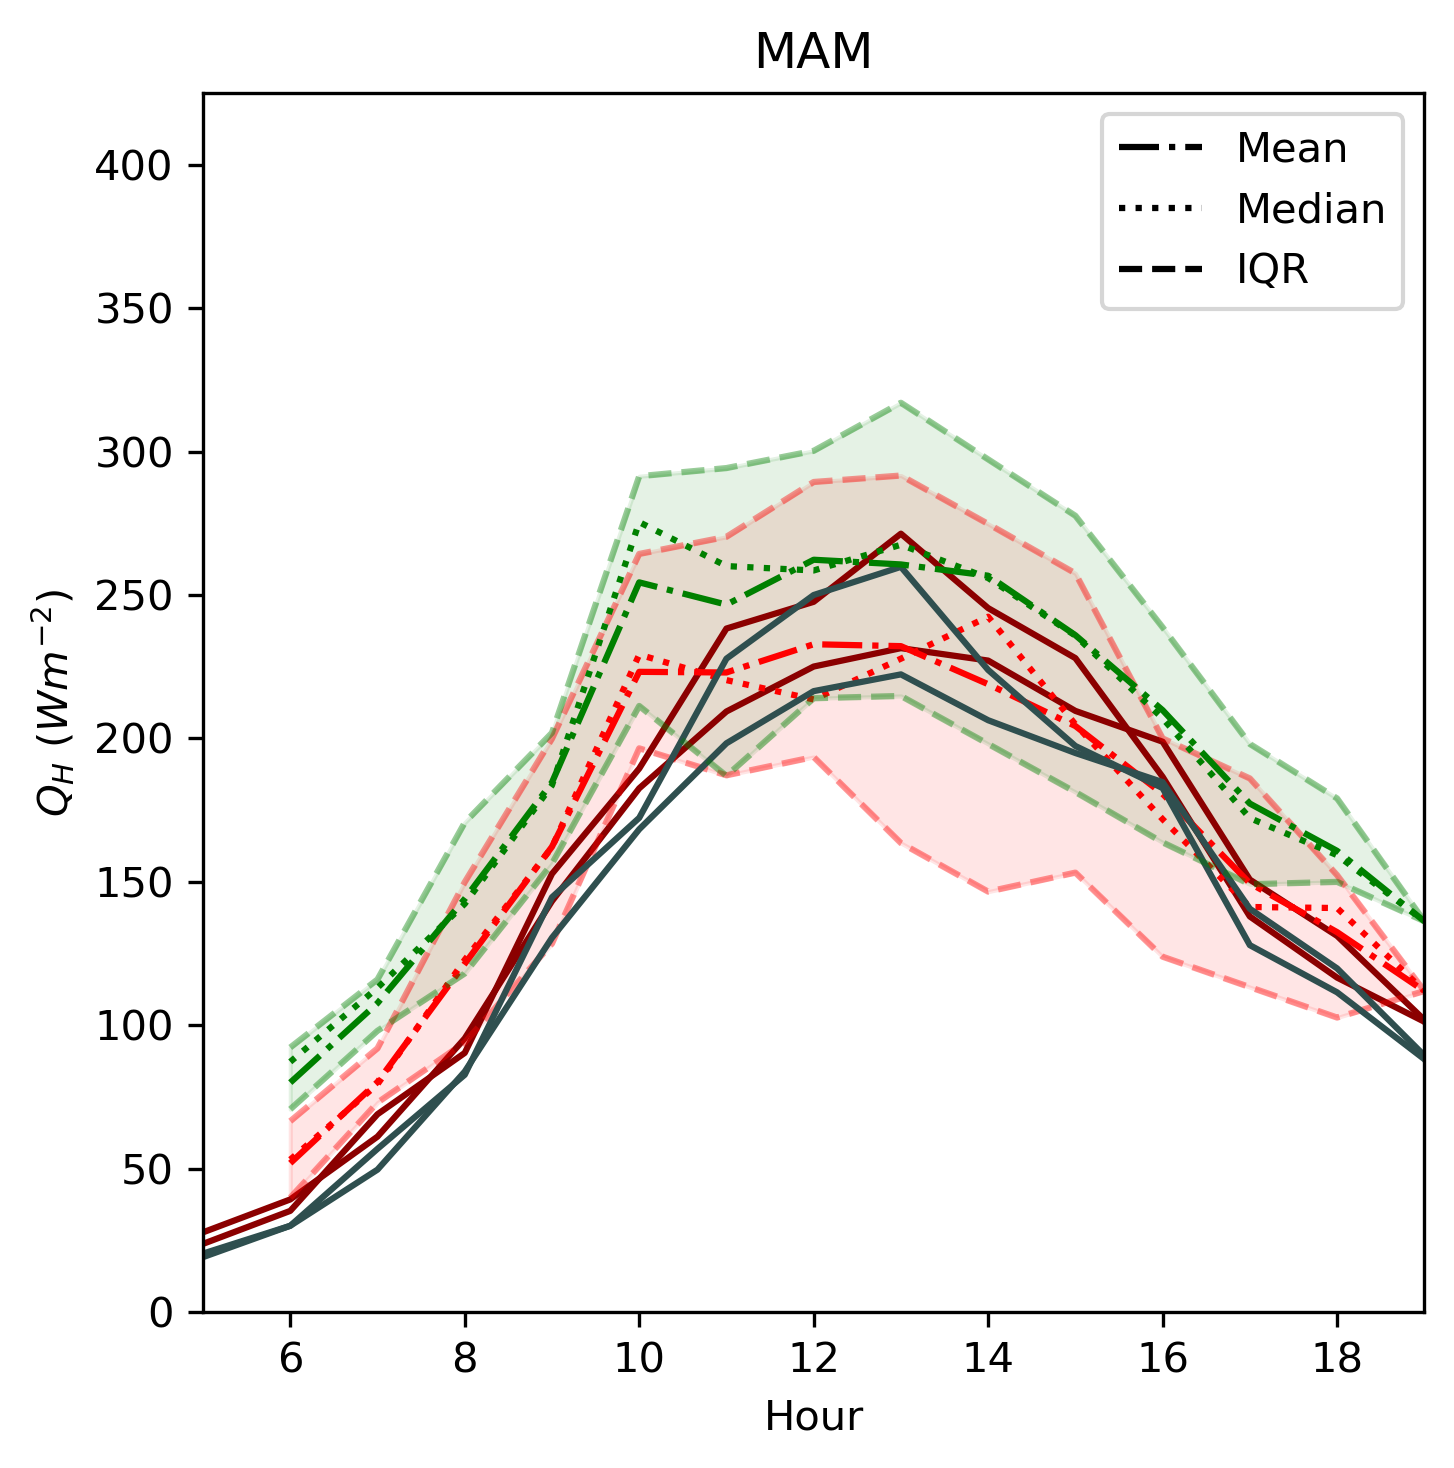
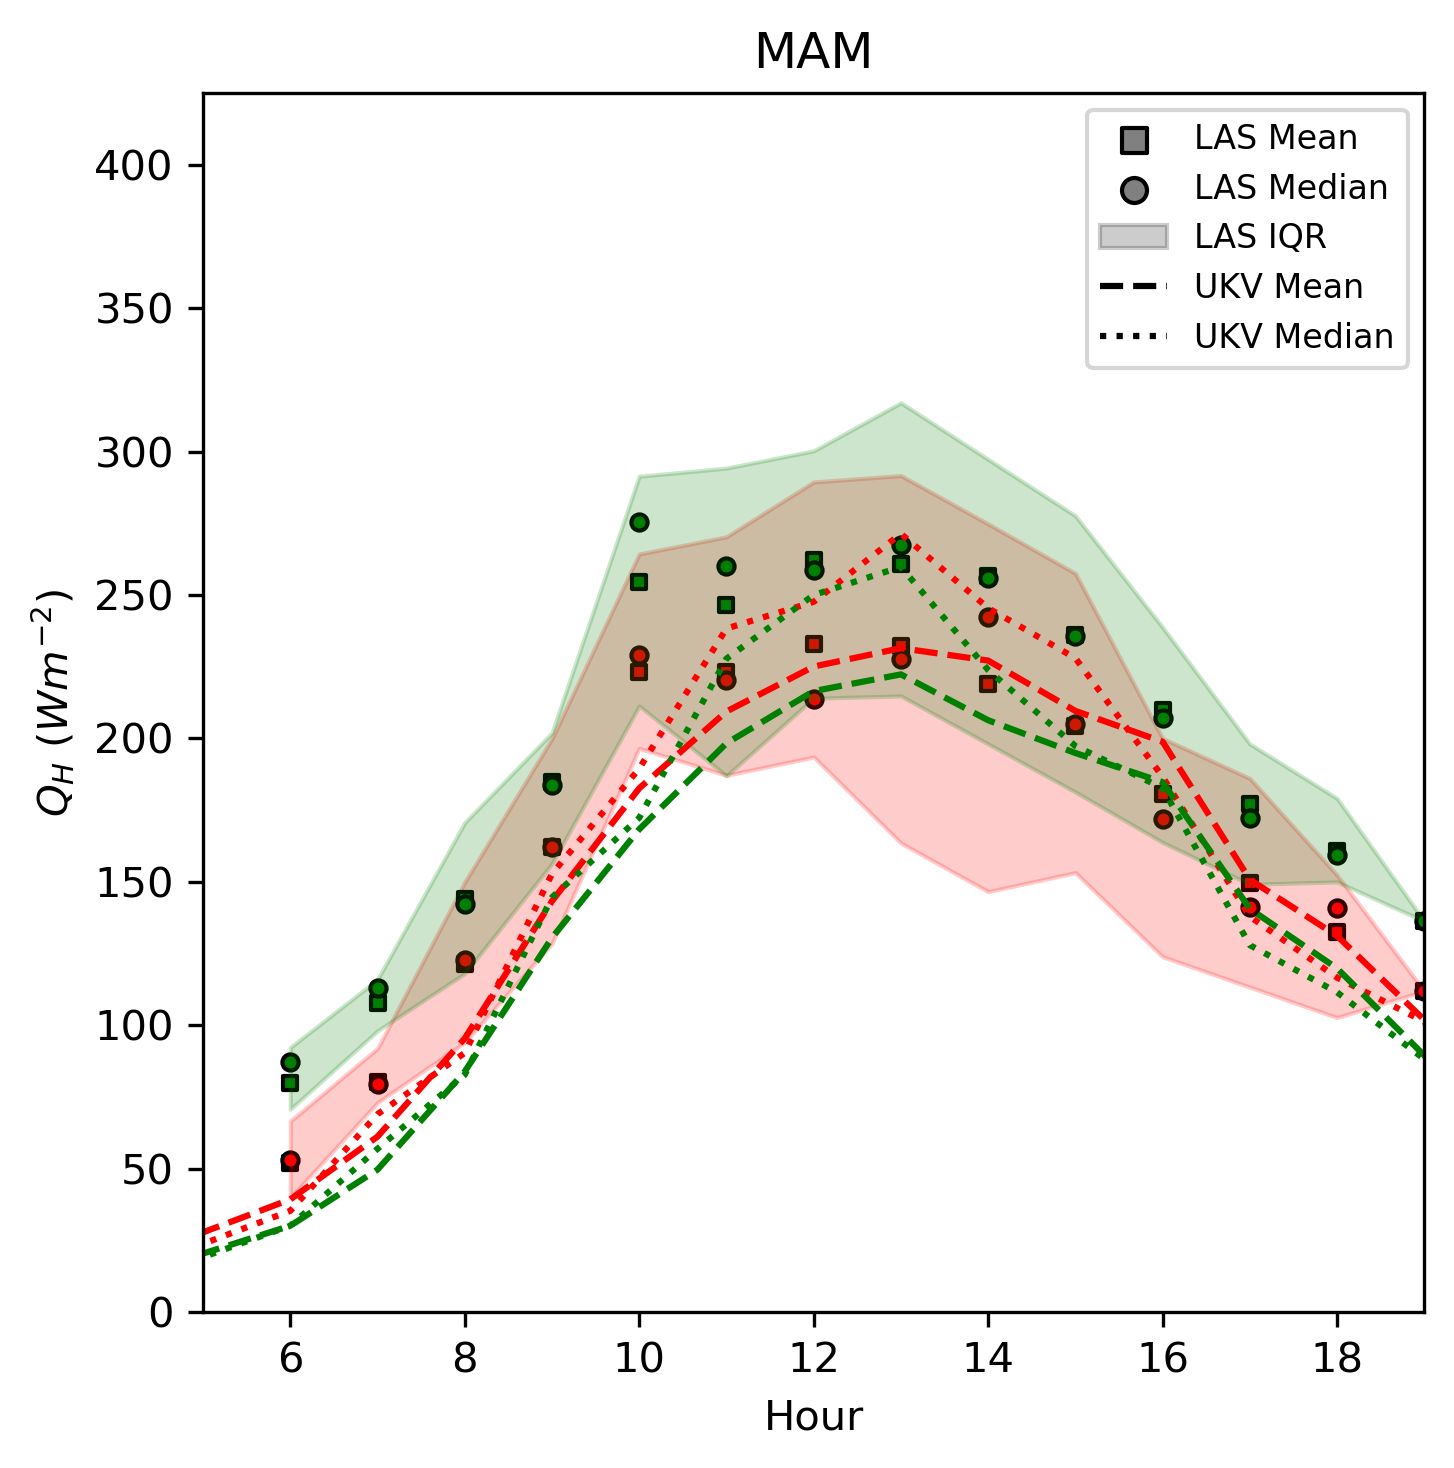
swap to scatter

Changed region(s): [[0.1238, 0.2759, 0.9904, 0.8583], [0.7428, 0.0613, 0.9904, 0.2452]]

diff --git a/scint_plots/scint_seasonality/seasonality_funs.py b/scint_plots/scint_seasonality/seasonality_funs.py
@@ -2,6 +2,7 @@ import pandas as pd
 import matplotlib.pyplot as plt
 from matplotlib.ticker import MaxNLocator
 from matplotlib.lines import Line2D
+import matplotlib.patches as mpatches
 
 from scint_flux import look_up
 
@@ -19,9 +20,7 @@ def plot_season_one_panel(season_dict, season_dict_UKV, save_path, variable='QH'
 
     all_seasons = ['DJF', 'MAM', 'JJA', 'SON']
 
-    ukv_colours = {'BCT_IMU': 'darkred', 'SCT_SWT': 'rebeccapurple', 'IMU_BTT': 'darkslategrey', 'BTT_BCT': 'navy'}
-
-    linestyle_dict = {'median': ':', 'mean': '-.', 'IQR': '--', 'UKV_median': '-', 'UKV_mean': '-'}
+    linestyle_dict = {'median': 'o', 'mean': 's', 'UKV_median': ':', 'UKV_mean': '--'}
 
     for season in all_seasons:
 
@@ -45,14 +44,13 @@ def plot_season_one_panel(season_dict, season_dict_UKV, save_path, variable='QH'
                 IQR_dict_UKV = IQR_path_dict_UKV['BL_H_' + path_num_str]
                 pair_id = look_up.scint_path_numbers[int(path.split('_')[-1])]
 
-                ax.plot(IQR_dict_UKV['mean'].index, IQR_dict_UKV['mean'], color=ukv_colours[pair_id],linestyle=linestyle_dict['UKV_mean'])
-                ax.plot(IQR_dict_UKV['median'].index, IQR_dict_UKV['median'], color=ukv_colours[pair_id],linestyle=linestyle_dict['UKV_median'])
+                ax.plot(IQR_dict_UKV['mean'].index, IQR_dict_UKV['mean'], color=colour_dict[pair_id],linestyle=linestyle_dict['UKV_mean'])
+                ax.plot(IQR_dict_UKV['median'].index, IQR_dict_UKV['median'], color=colour_dict[pair_id],linestyle=linestyle_dict['UKV_median'])
 
-                ax.plot(IQR_dict['mean'].index, IQR_dict['mean'], color=colour_dict[pair_id], linestyle=linestyle_dict['mean'])
-                ax.plot(IQR_dict['median'].index, IQR_dict['median'], color=colour_dict[pair_id], linestyle=linestyle_dict['median'])
-                ax.plot(IQR_dict['25'].columns, IQR_dict['25'].iloc[0], color=colour_dict[pair_id], linestyle=linestyle_dict['IQR'], alpha=0.4)
-                ax.plot(IQR_dict['75'].columns, IQR_dict['75'].iloc[0], colour_dict[pair_id], linestyle=linestyle_dict['IQR'], alpha=0.4)
-                ax.fill_between(IQR_dict['25'].columns, IQR_dict['25'].iloc[0], IQR_dict['75'].iloc[0], color=colour_dict[pair_id], alpha=0.1)
+                ax.scatter(IQR_dict['mean'].index, IQR_dict['mean'], color=colour_dict[pair_id], marker=linestyle_dict['mean'], s=10, edgecolor='k')
+                ax.scatter(IQR_dict['median'].index, IQR_dict['median'], color=colour_dict[pair_id], marker=linestyle_dict['median'], s=15, edgecolor='k')
+
+                ax.fill_between(IQR_dict['25'].columns, IQR_dict['25'].iloc[0], IQR_dict['75'].iloc[0], color=colour_dict[pair_id], alpha=0.2)
 
             ax.get_xaxis().set_major_locator(MaxNLocator(integer=True))
 
@@ -69,11 +67,17 @@ def plot_season_one_panel(season_dict, season_dict_UKV, save_path, variable='QH'
                 if pair_id == 'IMU_BTT':
                     # manually create legend
                     handles, labels = plt.gca().get_legend_handles_labels()
-                    line_mean = Line2D([0], [0], label='Mean', color='k', linestyle=linestyle_dict['mean'])
-                    line_median = Line2D([0], [0], label='Median', color='k', linestyle=linestyle_dict['median'])
-                    line_IQR = Line2D([0], [0], label='IQR', color='k', linestyle=linestyle_dict['IQR'])
-                    handles.extend([line_mean, line_median, line_IQR])
-                    plt.legend(handles=handles)
+
+                    scatter_mean = plt.scatter([1000], [1000], label='LAS Mean', color='grey', marker=linestyle_dict['mean'], edgecolor='k')
+                    scatter_median = plt.scatter([1000], [1000], label='LAS Median', color='grey', marker=linestyle_dict['median'], edgecolor='k')
+
+                    line_mean_ukv = Line2D([0], [0], label='UKV Mean', color='k', linestyle=linestyle_dict['UKV_mean'])
+                    line_median_ukv = Line2D([0], [0], label='UKV Median', color='k', linestyle=linestyle_dict['UKV_median'])
+
+                    IQR_patch = mpatches.Patch(color='k', label='LAS IQR', alpha=0.2)
+
+                    handles.extend([scatter_mean, scatter_median, IQR_patch, line_mean_ukv, line_median_ukv])
+                    plt.legend(handles=handles, fontsize=8)
 
             plt.tight_layout()
             # plt.show()

diff --git a/scint_plots/scint_seasonality/main_seasonality.py b/scint_plots/scint_seasonality/main_seasonality.py
@@ -8,7 +8,7 @@ from scint_plots.tools.preprocessed_UKV_csvs import read_UKV_csvs
 # user choices
 # 11, 13, 15
 # not 12 - this is always included
-path_choice = 15
+path_choice = 13
 
 save_path = os.getcwd().replace('\\', '/') + '/'
 
